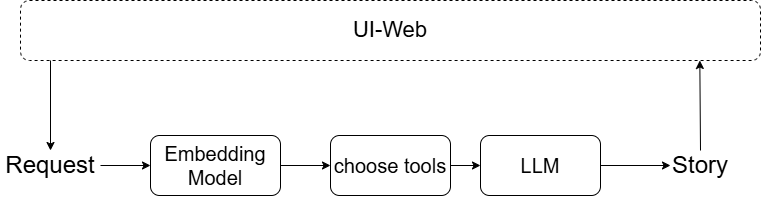
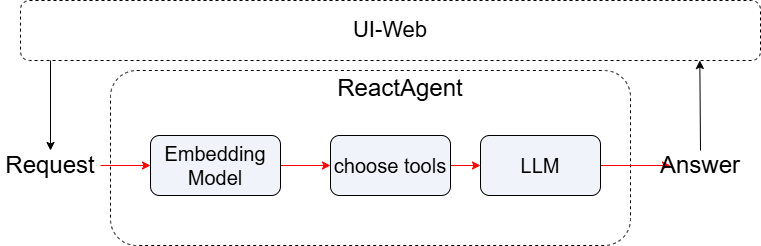
replace-png

diff --git a/docs/en/Cookbook/rag_nloop.md b/docs/en/Cookbook/rag_nloop.md
@@ -4,6 +4,15 @@ A key challenge in Q&A systems is handling conversational context. This tutorial
 
 We'll use the LazyLLM framework to build a conversational RAG system that can handle multi-turn conversations effectively.
 
+## Design Approach
+Our multi-turn conversational RAG system is built on the core idea of context-aware query rewriting, which transforms history-dependent user questions into standalone, retrievable queries.
+
+The process begins by leveraging the most recent dialogue turns to prompt an LLM to rewrite the current user question into a self-contained form. This rewritten query is then used to perform hybrid retrieval, combining dense vector search (via embeddings) and sparse lexical matching (BM25) in parallel to recall relevant document chunks. A cross-encoder-based re-ranker subsequently refines the retrieved results to surface the most pertinent passages.
+
+Finally, the rewritten query, top-ranked context, and trimmed dialogue history are jointly fed into an LLM to generate a coherent and grounded response.
+
+The entire pipeline is implemented using LazyLLM, with explicit management of dialogue history (length-constrained to prevent context overload). Tool functions—such as query rewriting, hybrid retrieval, and re-ranking—are encapsulated via fc_register to enable seamless integration into a ReAct Agent for dynamic tool orchestration. A web interface serves as the user-facing entry point, delivering an end-to-end multi-turn conversational QA experience.
+![alt text](../assets/rag.png)
 ## Setup
 
 ### Components

diff --git a/docs/en/Cookbook/API_Interaction_Agent_demo.md b/docs/en/Cookbook/API_Interaction_Agent_demo.md
@@ -9,6 +9,13 @@ Want a large language model to automatically call real-world APIs based on your 
 - How to use [ReactAgent][lazyllm.tools.agent.ReactAgent] with [WebModule][lazyllm.tools.WebModule] to enable API calling via Q&A.
 
 ---
+## Design Approach
+First, a UI-Web interface receives natural language requests from users (e.g., "Tell me about France" or "Which countries use the US dollar?") and forwards them to the core query module. This module analyzes the user's intent to determine whether the request pertains to "country information" or "countries using a specific currency," and automatically extracts key entities (such as country names or currency codes).
+
+Next, based on the identified intent and extracted entities, the system dynamically constructs the appropriate REST API request URL (e.g., /v3.1/name/france or /v3.1/currency/USD) and calls the external REST Countries API to retrieve structured data.
+
+Finally, the system returns the raw JSON response to an LLM Agent for further processing and summarization.
+![alt text](../assets/api.png)
 ## Preparation
 Obtain an API-KEY. For the detailed process, please refer to: https://docs.lazyllm.ai/zh-cn/stable/Tutorial/2/#2-api-key， REST Countries is an open-source API project that provides country information, allowing users to retrieve detailed data about countries—such as names, capitals, currencies, and languages—through RESTful interfaces.
 

diff --git a/docs/en/Cookbook/multi_modal_output_agent.md b/docs/en/Cookbook/multi_modal_output_agent.md
@@ -7,6 +7,14 @@ This project demonstrates how to use [LazyLLM](https://github.com/LazyAGI/LazyLL
 - How to combine [TrainableModule][lazyllm.module.TrainableModule] to invoke models of different modalities.
 - How to use [ReactAgent][lazyllm.tools.agent.ReactAgent] to automatically select and invoke tools to accomplish complex tasks.
 
+## Design Approach
+To achieve high-quality image generation, we propose a dual-toolchain collaborative mechanism combining prompt optimization and image generation.
+
+The first tool translates and rewrites the user’s natural language input into a well-structured, SD3-compliant English prompt tailored for Stable Diffusion 3 Medium. The second tool takes this optimized prompt and invokes the SD3 model to generate the corresponding image. The entire workflow is orchestrated autonomously by a ReAct Agent, which plans and executes the multi-step process.
+
+Integrating these components, our system is designed as follows:
+User request → sent to an LLM-based prompt refinement tool to generate a standardized English prompt → optimized prompt passed to the SD3 image generation tool → ReAct Agent automatically schedules and coordinates the two-step pipeline → final image (or its path) is returned to the client.
+![alt text](../assets/multi_model.png)
 ## Code Implementation
 
 ### Project Dependencies

diff --git a/docs/en/Cookbook/flex_agent.md b/docs/en/Cookbook/flex_agent.md
@@ -9,6 +9,16 @@ This project demonstrates how to use [LazyLLM](https://github.com/LazyAGI/LazyLL
     - How to leverage [TrainableModule][lazyllm.module.TrainableModule] for vector embeddings and cosine similarity computation.
     - How to utilize [ReactAgent][lazyllm.tools.agent.ReactAgent] to automatically choose and invoke tools to solve complex tasks.
 
+
+## Design Approach
+To enable intelligent tool invocation and multi-step reasoning, we propose a collaborative mechanism combining semantic filtering with a ReAct Agent.
+
+In the first stage, an embedding model computes the semantic similarity between the user's query and available tool descriptions, dynamically selecting the most relevant tools. In the second stage, a ReAct Agent orchestrates the LLM to invoke the selected tools, performing step-by-step computation or decomposing complex tasks as needed. The final execution results are then returned to the user.
+
+Integrating these ideas, our system is designed as follows:
+User request → received by LLM → passed to embedding model (e.g., BGE-M3) to match high-relevance tools → relevant tools identified via text similarity → ReAct Agent (LLM + toolchain) activated to execute multi-step reasoning → consolidated results returned to the client.
+![alt text](../assets/flex.png)
+
 ## Implementation
 
 ### Dependencies
